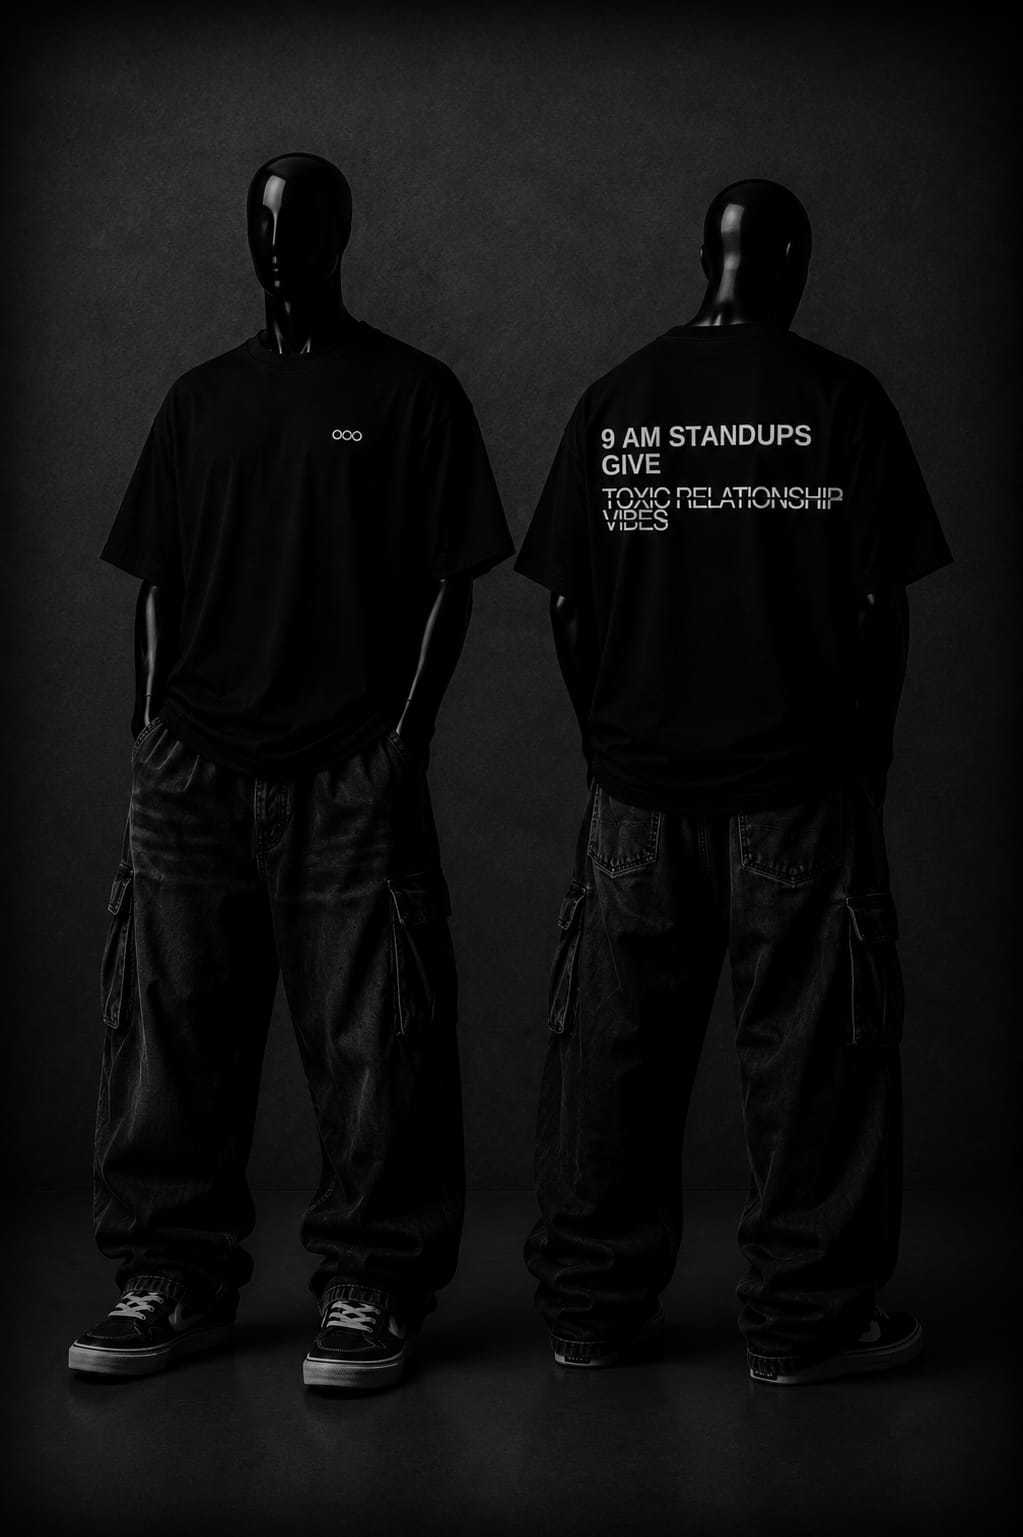
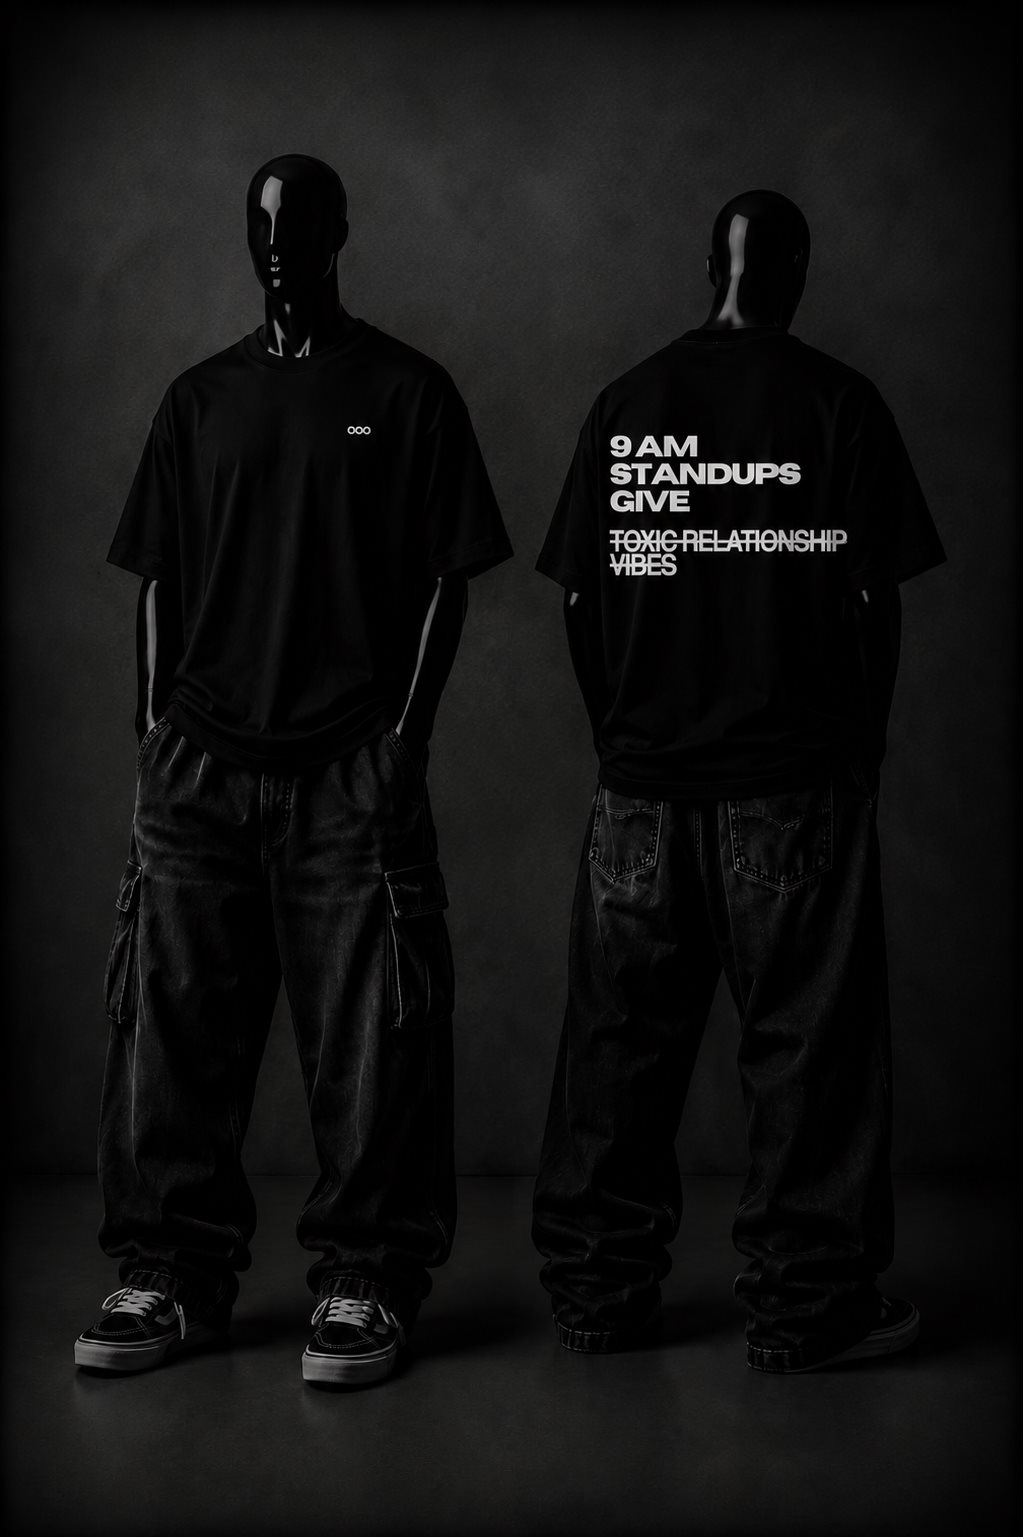
feat: new mannequin photos, 6 new products, rename delegator/chai-sutta-break, fix text truncation
- Replace 5 existing product images with new mannequin photos (9am-standups, like-a-family, quick-call, delegator, chai-sutta-break)
- Add 6 new products: boyfriend-wfh, good-team-manager, happy-friday, manager-eyes, notice-period-energy, mute-is-my-crown
- Rename manager-goat -> delegator (DELEGATOR ram graphic)
- Rename chai-coffee-break -> chai-sutta-break (CHAI SUTTA BREAK)
- Fix product card text truncation: long slogans auto-shrink to text-xs with line-clamp-3
- All images converted from PNG (~1.5MB) to optimized JPG (~130KB)
- Meta CAPI/Pixel unaffected: content_ids use slugs, feed auto-reads from DB

diff --git a/prisma/seed.ts b/prisma/seed.ts
@@ -81,20 +81,20 @@ const PRODUCTS: readonly ProductSeed[] = [
     mockupUrl: '/products/employee-resign-full.jpg',
     mockupBackUrl: '/products/employee-resign-mannequin-full.jpg',
     seoTitle: 'An Employee Who Does Not Give Up Resigns Tee',
-    seoDescription: 'Heavyweight oversized cotton tee with high-contrast back graphic print.',
+    seoDescription: 'Heavyweight oversized cotton tee — the corporate anthem for anyone who has ever rage-quit in style.',
     variants: [
       ...sizeSpread('Black', 'Oversized', 30),
     ],
   },
   {
     slug: 'like-a-family-here',
-    slogan: 'LIKE A FAMILY HERE *layoffs excluded.',
+    slogan: 'LIKE A FAMILY HERE* *LAYOFFS EXCLUDED.',
     tier: Tier.SAFE,
     collectionSlug: 'operator',
     basePrice: 79900, // ₹799
     mockupUrl: '/products/like-a-family-full.jpg',
     seoTitle: 'Like a Family Here Layoffs Excluded Tee',
-    seoDescription: 'Corporate culture satire graphic tee in heavyweight black cotton.',
+    seoDescription: 'Corporate culture satire graphic tee — because every town hall promises family until Q3 cuts.',
     variants: [
       ...sizeSpread('Black', 'Oversized', 25),
     ],
@@ -113,14 +113,14 @@ const PRODUCTS: readonly ProductSeed[] = [
     ],
   },
   {
-    slug: 'manager-goat',
-    slogan: 'MANAGER',
+    slug: 'delegator',
+    slogan: 'DELEGATOR',
     tier: Tier.VERY_DIRECT,
     collectionSlug: 'heretic',
     basePrice: 99900, // ₹999
-    mockupUrl: '/products/manager-goat-full.jpg',
-    seoTitle: 'Manager Goat Graphic Heavyweight Tee',
-    seoDescription: 'Gold ram graphic back print tee for leadership satire.',
+    mockupUrl: '/products/delegator-full.jpg',
+    seoTitle: 'Delegator Ram Graphic Heavyweight Tee',
+    seoDescription: 'Gold ram graphic back print — for every manager who delegates like a GOAT.',
     variants: [
       ...sizeSpread('Black', 'Oversized', 15),
     ],
@@ -146,20 +146,20 @@ const PRODUCTS: readonly ProductSeed[] = [
     basePrice: 89900, // ₹899
     mockupUrl: '/products/9am-standups-full.jpg',
     seoTitle: '9 AM Standups Give Toxic Relationship Vibes Tee',
-    seoDescription: 'Morning standup commentary in glitch typography.',
+    seoDescription: 'Morning standup culture called out in bold glitch typography on heavyweight black cotton.',
     variants: [
       ...sizeSpread('Black', 'Oversized', 22),
     ],
   },
   {
-    slug: 'chai-coffee-break',
-    slogan: 'CHAI COFFEE BREAK',
+    slug: 'chai-sutta-break',
+    slogan: 'CHAI SUTTA BREAK',
     tier: Tier.SAFE,
     collectionSlug: 'operator',
     basePrice: 79900, // ₹799
-    mockupUrl: '/products/chai-coffee-break-full.jpg',
-    seoTitle: 'Chai Coffee Break Graphic Tee',
-    seoDescription: 'Iced coffee and chai break illustration back print tee.',
+    mockupUrl: '/products/chai-sutta-break-full.jpg',
+    seoTitle: 'Chai Sutta Break Graphic Tee',
+    seoDescription: 'The sacred office ritual — chai, sutta, and pretending the deadline is tomorrow.',
     variants: [
       ...sizeSpread('Black', 'Oversized', 25),
     ],
@@ -172,7 +172,7 @@ const PRODUCTS: readonly ProductSeed[] = [
     basePrice: 84900, // ₹849
     mockupUrl: '/products/quick-call-full.jpg',
     seoTitle: 'Quick Call Exhaustion Graphic Tee',
-    seoDescription: 'Repeated quick call graphic back print tee.',
+    seoDescription: 'The meeting that should have been an email — repeated until insanity.',
     variants: [
       ...sizeSpread('Black', 'Oversized', 18),
     ],
@@ -216,6 +216,85 @@ const PRODUCTS: readonly ProductSeed[] = [
       ...sizeSpread('White', 'Oversized', 28),
     ],
   },
+  // ---- NEW PRODUCTS ----
+  {
+    slug: 'boyfriend-wfh',
+    slogan: 'MY BOYFRIEND IS DOING WFH',
+    tier: Tier.SAFE,
+    collectionSlug: 'operator',
+    basePrice: 79900, // ₹799
+    mockupUrl: '/products/boyfriend-wfh-full.jpg',
+    seoTitle: 'My Boyfriend Is Doing WFH Graphic White Tee',
+    seoDescription: 'Chili pepper graphic white tee — because your boyfriend working from home hits different.',
+    variants: [
+      ...sizeSpread('White', 'Oversized', 25),
+    ],
+  },
+  {
+    slug: 'good-team-manager',
+    slogan: 'GOOD TEAM MANAGER',
+    tier: Tier.DIRECT,
+    collectionSlug: 'believer',
+    basePrice: 89900, // ₹899
+    mockupUrl: '/products/good-team-manager-full.jpg',
+    seoTitle: 'Good Team Manager Moth Graphic Tee',
+    seoDescription: 'Unread emails & pending approvals — the moth of management on heavyweight black cotton.',
+    variants: [
+      ...sizeSpread('Black', 'Oversized', 20),
+    ],
+  },
+  {
+    slug: 'happy-friday',
+    slogan: 'HAPPY FRIDAY',
+    tier: Tier.SAFE,
+    collectionSlug: 'operator',
+    basePrice: 79900, // ₹799
+    mockupUrl: '/products/happy-friday-full.jpg',
+    seoTitle: 'Happy Friday Bold Graphic Tee',
+    seoDescription: 'The only day that matters — bold Friday typography on heavyweight black cotton.',
+    variants: [
+      ...sizeSpread('Black', 'Oversized', 25),
+    ],
+  },
+  {
+    slug: 'manager-eyes',
+    slogan: 'MANAGER',
+    tier: Tier.VERY_DIRECT,
+    collectionSlug: 'heretic',
+    basePrice: 99900, // ₹999
+    mockupUrl: '/products/manager-eyes-full.jpg',
+    seoTitle: 'Manager Gold Eyes Graphic Heavyweight Tee',
+    seoDescription: 'Gold eyes watching — the manager sees everything, on heavyweight black cotton.',
+    variants: [
+      ...sizeSpread('Black', 'Oversized', 15),
+    ],
+  },
+  {
+    slug: 'notice-period-energy',
+    slogan: 'NOTICE PERIOD ENERGY',
+    tier: Tier.DIRECT,
+    collectionSlug: 'believer',
+    basePrice: 84900, // ₹849
+    mockupUrl: '/products/notice-period-energy-full.jpg',
+    seoTitle: 'Notice Period Energy Graphic Tee',
+    seoDescription: 'Girl on couch vibes — notice period energy in bold red on heavyweight black cotton.',
+    variants: [
+      ...sizeSpread('Black', 'Oversized', 22),
+    ],
+  },
+  {
+    slug: 'mute-is-my-crown',
+    slogan: 'MUTE IS MY CROWN',
+    tier: Tier.SAFE,
+    collectionSlug: 'operator',
+    basePrice: 84900, // ₹849
+    mockupUrl: '/products/mute-is-my-crown-full.jpg',
+    seoTitle: 'Mute Is My Crown Queen Card White Tee',
+    seoDescription: 'Queen of hearts playing card — mute is my crown, on premium white cotton.',
+    variants: [
+      ...sizeSpread('White', 'Oversized', 25),
+    ],
+  },
 ];
 
 interface SloganSeed {
@@ -227,14 +306,20 @@ const SLOGANS: readonly SloganSeed[] = [
   { text: 'An employee who does not give up resigns.', tier: Tier.SAFE },
   { text: 'LIKE A FAMILY HERE *layoffs excluded.', tier: Tier.SAFE },
   { text: 'HYBRID 3 days mandatory', tier: Tier.DIRECT },
-  { text: 'MANAGER', tier: Tier.VERY_DIRECT },
+  { text: 'DELEGATOR', tier: Tier.VERY_DIRECT },
   { text: 'WFH over WFO', tier: Tier.SAFE },
   { text: '9 AM STANDUPS GIVE TOXIC RELATIONSHIP VIBES', tier: Tier.DIRECT },
-  { text: 'CHAI COFFEE BREAK', tier: Tier.SAFE },
+  { text: 'CHAI SUTTA BREAK', tier: Tier.SAFE },
   { text: 'QUICK CALL', tier: Tier.DIRECT },
   { text: 'BE AWARE OF SNAKE CO-WORKERS', tier: Tier.DIRECT },
   { text: "I'm sorry I was late. I had a meeting.* (*I was talking to claude.)", tier: Tier.SAFE },
   { text: 'AM I AUDIBLE AM I AUDIBLE AM I AUDIBLE', tier: Tier.DIRECT },
+  { text: 'MY BOYFRIEND IS DOING WFH', tier: Tier.SAFE },
+  { text: 'GOOD TEAM MANAGER', tier: Tier.DIRECT },
+  { text: 'HAPPY FRIDAY', tier: Tier.SAFE },
+  { text: 'MANAGER', tier: Tier.VERY_DIRECT },
+  { text: 'NOTICE PERIOD ENERGY', tier: Tier.DIRECT },
+  { text: 'MUTE IS MY CROWN', tier: Tier.SAFE },
 ];
 
 interface BlankTemplateSeed {

diff --git a/src/components/shop/ProductGrid.tsx b/src/components/shop/ProductGrid.tsx
@@ -121,7 +121,13 @@ export function ProductGrid({
                 <span className="text-[10px] font-mono uppercase tracking-wider text-muted font-bold">
                   {COLLECTION_TITLES[product.collectionSlug] || product.collectionSlug}
                 </span>
-                <span className="text-sm font-bold text-ink leading-tight line-clamp-2 min-h-[2.5rem]">
+                <span
+                  className={`font-bold text-ink leading-tight min-h-[2.5rem] ${
+                    product.slogan.length > 30
+                      ? 'text-xs line-clamp-3'
+                      : 'text-sm line-clamp-2'
+                  }`}
+                >
                   {product.slogan}
                 </span>
                 <div className="flex items-baseline gap-1.5 mt-1 font-mono">
